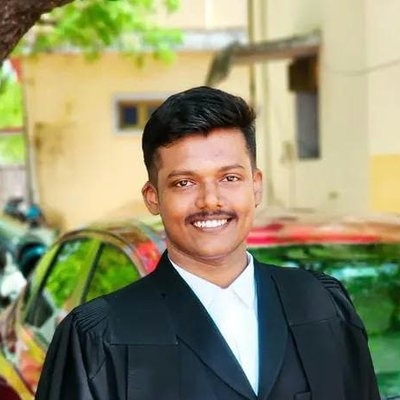
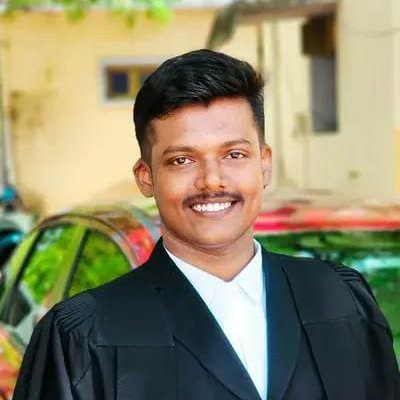
Re-crop Muthu Krishnan's photo so his face sits higher in the circle
photoVersion 2 makes browsers fetch the new photo.

Claude-Session: https://claude.ai/code/session_012xGooYthkxzBd4MHZxLafW

diff --git a/index.html b/index.html
@@ -13,7 +13,7 @@
 <link rel="preconnect" href="https://fonts.googleapis.com">
 <link rel="preconnect" href="https://fonts.gstatic.com" crossorigin>
 <link href="https://fonts.googleapis.com/css2?family=Noto+Sans+Tamil:wght@400;600;700;800&display=swap" rel="stylesheet">
-<link rel="stylesheet" href="assets/css/style.css?v=20261121b">
+<link rel="stylesheet" href="assets/css/style.css?v=20261121c">
 </head>
 <body data-page="home">
 
@@ -109,9 +109,9 @@
   </div>
 </footer>
 
-<script src="assets/js/config.js?v=20261121b"></script>
-<script src="assets/js/panchang.js?v=20261121b"></script>
-<script src="assets/js/decor.js?v=20261121b"></script>
-<script src="assets/js/app.js?v=20261121b"></script>
+<script src="assets/js/config.js?v=20261121c"></script>
+<script src="assets/js/panchang.js?v=20261121c"></script>
+<script src="assets/js/decor.js?v=20261121c"></script>
+<script src="assets/js/app.js?v=20261121c"></script>
 </body>
 </html>

diff --git a/accounts.html b/accounts.html
@@ -10,7 +10,7 @@
 <link rel="preconnect" href="https://fonts.googleapis.com">
 <link rel="preconnect" href="https://fonts.gstatic.com" crossorigin>
 <link href="https://fonts.googleapis.com/css2?family=Noto+Sans+Tamil:wght@400;600;700;800&display=swap" rel="stylesheet">
-<link rel="stylesheet" href="assets/css/style.css?v=20261121b">
+<link rel="stylesheet" href="assets/css/style.css?v=20261121c">
 </head>
 <body data-page="accounts">
 
@@ -59,8 +59,8 @@
   </div>
 </footer>
 
-<script src="assets/js/config.js?v=20261121b"></script>
-<script src="assets/js/decor.js?v=20261121b"></script>
-<script src="assets/js/app.js?v=20261121b"></script>
+<script src="assets/js/config.js?v=20261121c"></script>
+<script src="assets/js/decor.js?v=20261121c"></script>
+<script src="assets/js/app.js?v=20261121c"></script>
 </body>
 </html>

diff --git a/contact.html b/contact.html
@@ -10,7 +10,7 @@
 <link rel="preconnect" href="https://fonts.googleapis.com">
 <link rel="preconnect" href="https://fonts.gstatic.com" crossorigin>
 <link href="https://fonts.googleapis.com/css2?family=Noto+Sans+Tamil:wght@400;600;700;800&display=swap" rel="stylesheet">
-<link rel="stylesheet" href="assets/css/style.css?v=20261121b">
+<link rel="stylesheet" href="assets/css/style.css?v=20261121c">
 </head>
 <body data-page="contact">
 
@@ -77,8 +77,8 @@
   </div>
 </footer>
 
-<script src="assets/js/config.js?v=20261121b"></script>
-<script src="assets/js/decor.js?v=20261121b"></script>
-<script src="assets/js/app.js?v=20261121b"></script>
+<script src="assets/js/config.js?v=20261121c"></script>
+<script src="assets/js/decor.js?v=20261121c"></script>
+<script src="assets/js/app.js?v=20261121c"></script>
 </body>
 </html>

diff --git a/members.html b/members.html
@@ -10,7 +10,7 @@
 <link rel="preconnect" href="https://fonts.googleapis.com">
 <link rel="preconnect" href="https://fonts.gstatic.com" crossorigin>
 <link href="https://fonts.googleapis.com/css2?family=Noto+Sans+Tamil:wght@400;600;700;800&display=swap" rel="stylesheet">
-<link rel="stylesheet" href="assets/css/style.css?v=20261121b">
+<link rel="stylesheet" href="assets/css/style.css?v=20261121c">
 </head>
 <body data-page="members">
 
@@ -55,8 +55,8 @@
   </div>
 </footer>
 
-<script src="assets/js/config.js?v=20261121b"></script>
-<script src="assets/js/decor.js?v=20261121b"></script>
-<script src="assets/js/app.js?v=20261121b"></script>
+<script src="assets/js/config.js?v=20261121c"></script>
+<script src="assets/js/decor.js?v=20261121c"></script>
+<script src="assets/js/app.js?v=20261121c"></script>
 </body>
 </html>

diff --git a/assets/js/config.js b/assets/js/config.js
@@ -18,7 +18,7 @@ window.VI_CONFIG = {
      e.g. photos/VEL-001.jpg. No photo = the member's initials are shown. */
   photoFolder: 'photos/',
   photoExt: '.jpg',
-  photoVersion: 1,          // raise by 1 after replacing a photo, so browsers fetch the new one
+  photoVersion: 2,          // raise by 1 after replacing a photo, so browsers fetch the new one
 
   /* Codes to leave off the members wall, e.g. ['VEL-014'].
      Their payments still count in the accounts. */
